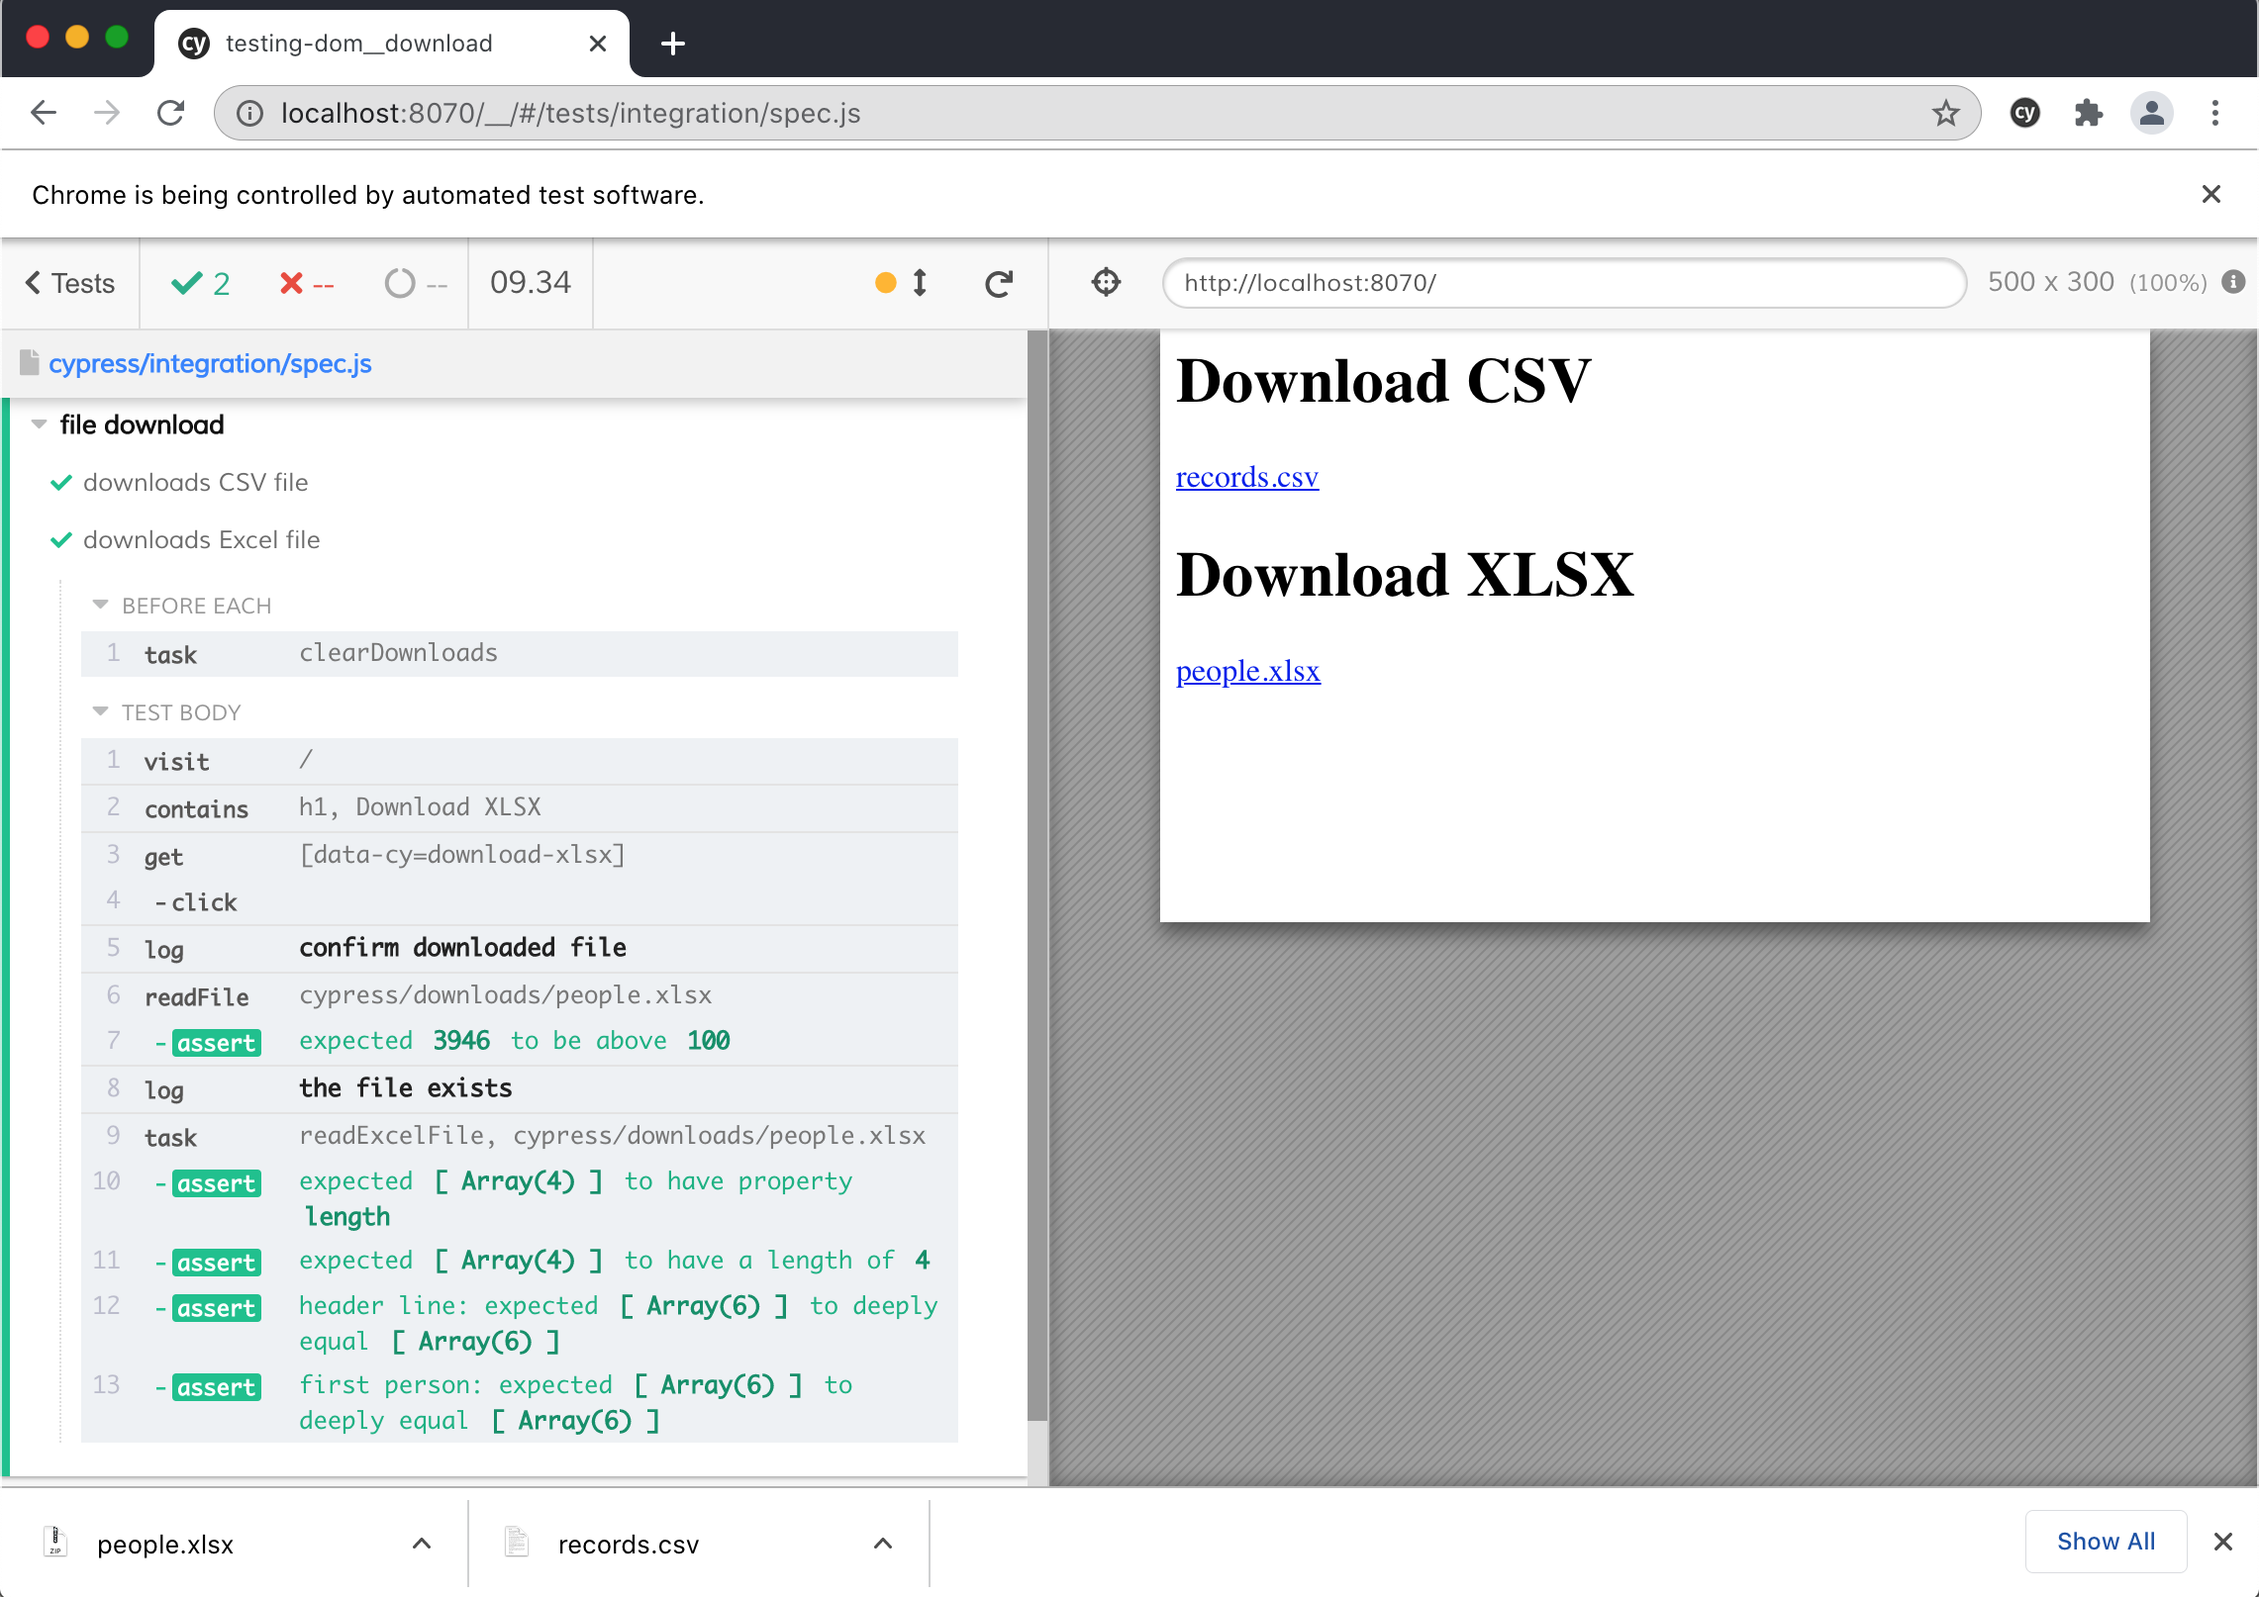
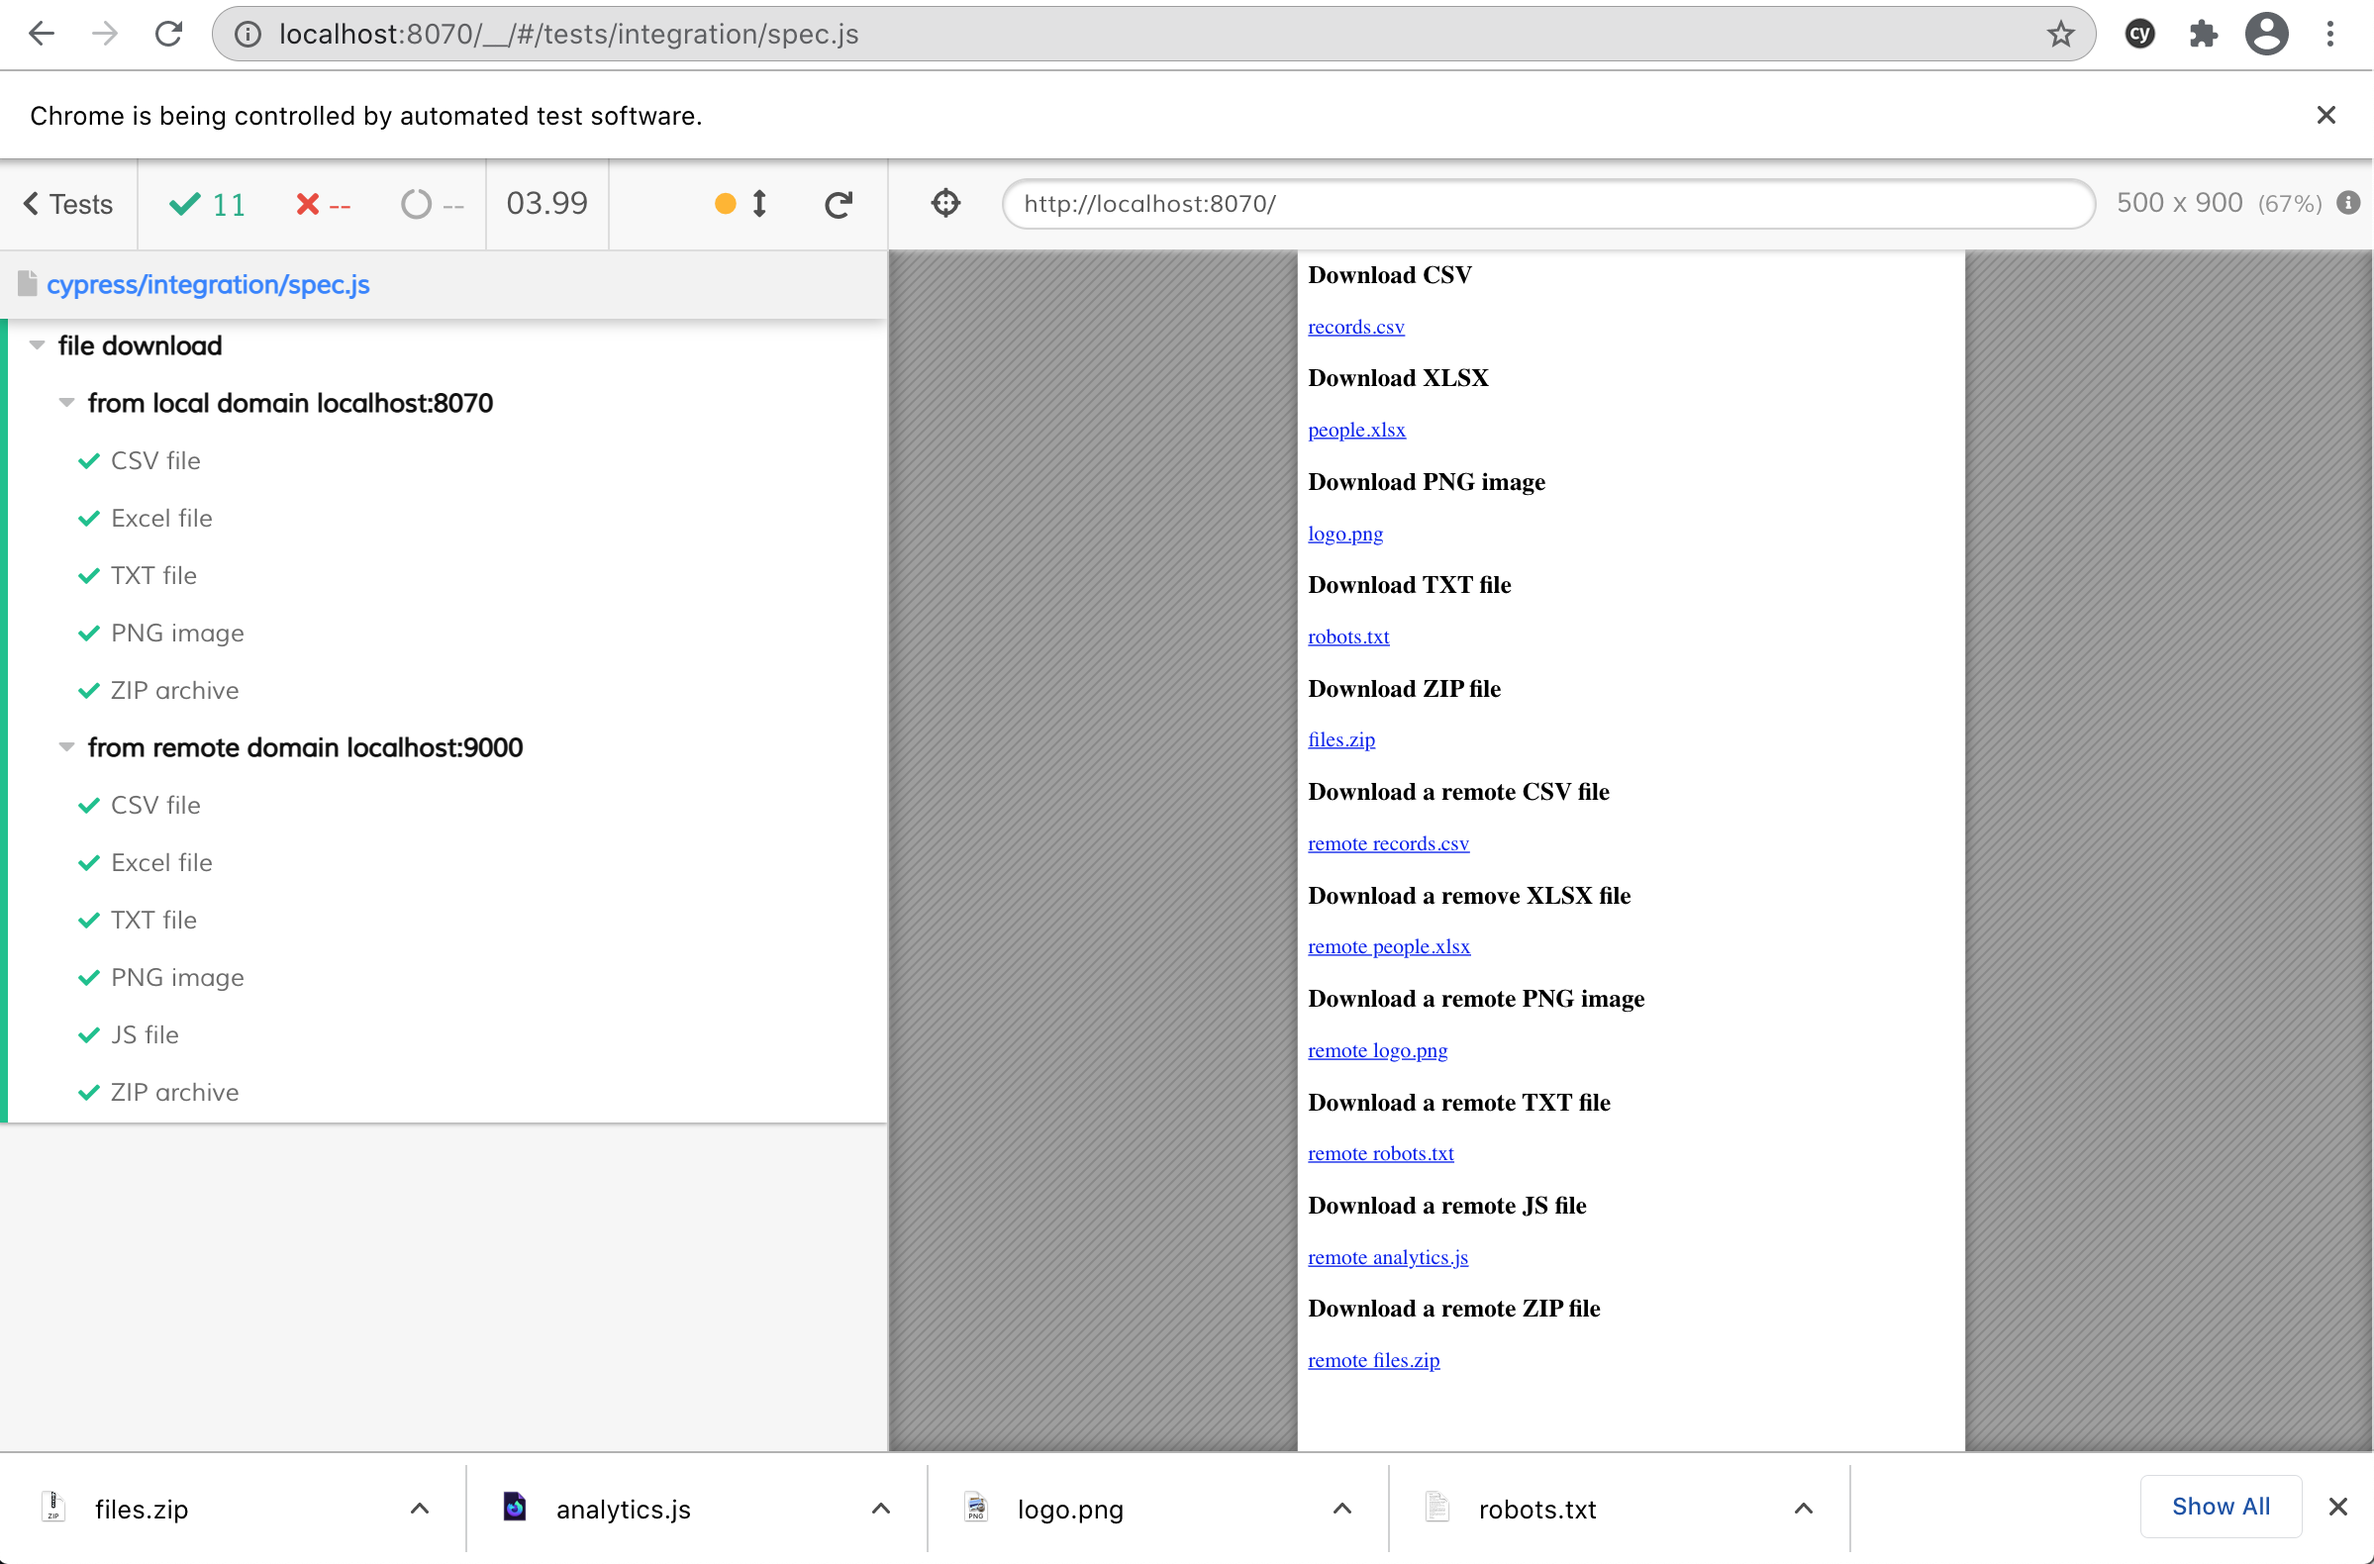
extend the downloads recipe with zip download and validation (#608)

diff --git a/examples/testing-dom__download/cypress/plugins/index.js b/examples/testing-dom__download/cypress/plugins/index.js
@@ -3,6 +3,8 @@
 const path = require('path')
 const fs = require('fs')
 const readXlsxFile = require('read-excel-file/node')
+const AdmZip = require('adm-zip')
+const { stripIndent } = require('common-tags')
 
 // place downloads into "cypress/downloads" folder
 const downloadDirectory = path.join(__dirname, '..', 'downloads')
@@ -36,6 +38,74 @@ module.exports = (on, config) => {
 
       return readXlsxFile(filename)
     },
+
+    validateZipFile (filename) {
+      // now let's validate the downloaded ZIP file
+      // the validations depend on your projects. For this example
+      // we will check that the zip has two entries "a.txt" and "b.txt"
+      // and that the contents of the zipped file "a.txt" are the same as expected
+
+      // Tip: use https://github.com/cthackers/adm-zip to load and unzip the Zip contents
+      console.log('loading zip', filename)
+      const zip = new AdmZip(filename)
+      const zipEntries = zip.getEntries()
+
+      const names = zipEntries.map((entry) => entry.entryName).sort()
+
+      console.log('zip file %s has entries %o', filename, names)
+
+      // since this is plugins code we do not have built-in "expect" or "assert" functions
+      // instead we can throw an Error object which fails the "cy.task" command
+      if (names.length !== 2) {
+        throw new Error(`List of files ${names.join(',')} in ${filename} has extra files`)
+      }
+
+      // if there is no error, let's print positive message to the terminal
+      // to let the user know this validation was successful
+      console.log('✅ number of entries')
+
+      if (!names.includes('a.txt')) {
+        throw new Error(`List of files ${names.join(',')} in ${filename} is missing a.txt`)
+      }
+
+      console.log('✅ has a.txt entry')
+
+      if (!names.includes('b.txt')) {
+        throw new Error(`List of files ${names.join(',')} in ${filename} is missing b.txt`)
+      }
+
+      console.log('✅ has b.txt entry')
+
+      // confirm the contents of an entry inside the Zip file
+      // the entry is just a text file in our case
+      // let's grab its text content and compare to the expected string
+      const aEntry = zip.readAsText('a.txt').trim()
+      const expectedText = stripIndent`
+      hello zip
+      and Cypress recipes
+      `
+
+      if (aEntry !== expectedText) {
+        console.error('Expected file a.txt to have text')
+        console.error('------')
+        console.error(expectedText)
+        console.error('------')
+        console.error('but it had text')
+        console.error('------')
+        console.error(aEntry)
+        console.error('------')
+        throw new Error(stripIndent`
+          Invalid a.txt entry in the zip file ${filename}
+          See terminal for more details
+        `)
+      }
+
+      console.log('✅ a.txt file has the expected contents')
+
+      // any other validations?
+
+      return null
+    },
   })
 
   // https://on.cypress.io/browser-launch-api
@@ -43,14 +113,21 @@ module.exports = (on, config) => {
     console.log('browser %o', browser)
 
     if (isFirefox(browser)) {
+      // special settings for Firefox browser
+      // to prevent showing popup dialogs that block the rest of the test
       options.preferences['browser.download.dir'] = downloadDirectory
       options.preferences['browser.download.folderList'] = 2
 
-      // needed to prevent download prompt for text/csv and Excel files
-      // grab the Excel MIME types by downloading the files in Excel and observing
-      // the reported MIME content types in the Developer Toos
-      options.preferences['browser.helperApps.neverAsk.saveToDisk'] =
-        'text/csv,application/vnd.openxmlformats-officedocument.spreadsheetml.sheet'
+      // needed to prevent the download prompt for CSV, Excel, and ZIP files
+      // TIP: with Firefox DevTools open, download the file yourself
+      // and observe the reported MIME type in the Developer Tools
+      const mimeTypes = [
+        'text/csv',
+        'application/vnd.openxmlformats-officedocument.spreadsheetml.sheet', // Excel
+        'application/zip',
+      ]
+
+      options.preferences['browser.helperApps.neverAsk.saveToDisk'] = mimeTypes.join(',')
 
       return options
     }

diff --git a/examples/testing-dom__download/cypress/integration/spec.js b/examples/testing-dom__download/cypress/integration/spec.js
@@ -78,6 +78,19 @@ describe('file download', () => {
     })
   }
 
+  const validateZip = () => {
+    const downloadedFilename = path.join(downloadsFolder, 'files.zip')
+
+    // wait for the file to be fully downloaded by reading it (as binary)
+    // and checking its length
+    cy.readFile(downloadedFilename, 'binary', { timeout: 15000 }).should('have.length.gt', 300)
+
+    // unzipping and validating a zip file requires the direct access to the file system
+    // thus it is easier to perform the checks from the plugins file that runs in Node
+    // see the plugins file "on('task')" code to see how we can read and validate a Zip file
+    cy.task('validateZipFile', downloadedFilename)
+  }
+
   beforeEach(() => {
     cy.task('clearDownloads')
 
@@ -162,6 +175,14 @@ describe('file download', () => {
       cy.log('**confirm downloaded image**')
       validateImage()
     })
+
+    it('ZIP archive', () => {
+      cy.visit('/')
+      cy.get('[data-cy=download-zip]').click()
+
+      cy.log('**confirm downloaded ZIP**')
+      validateZip()
+    })
   })
 
   // The next step tries to download an image file located in
@@ -229,6 +250,14 @@ describe('file download', () => {
 
         expect(lines).to.have.length.gt(20)
       })
+    })
+
+    it('ZIP archive', () => {
+      cy.visit('/')
+      cy.get('[data-cy=download-remote-zip]').click()
+
+      cy.log('**confirm downloaded ZIP**')
+      validateZip()
     })
   })
 })

diff --git a/examples/testing-dom__download/public/index.html b/examples/testing-dom__download/public/index.html
@@ -12,6 +12,9 @@
   <h3>Download TXT file</h3>
   <a data-cy="download-txt" href="robots.txt" download>robots.txt</a>
 
+  <h3>Download ZIP file</h3>
+  <a data-cy="download-zip" href="files.zip" download>files.zip</a>
+
   <h3>Download a remote CSV file</h3>
   <a data-cy="download-remote-csv" href="http://localhost:9000/records.csv" download>remote records.csv</a>
 
@@ -26,4 +29,7 @@
 
   <h3>Download a remote JS file</h3>
   <a data-cy="download-remote-js" href="https://www.google-analytics.com/analytics.js" download>remote analytics.js</a>
+
+  <h3>Download a remote ZIP file</h3>
+  <a data-cy="download-remote-zip" href="http://localhost:9000/files.zip" download>remote files.zip</a>
 </body>

diff --git a/examples/testing-dom__download/README.md b/examples/testing-dom__download/README.md
@@ -2,11 +2,13 @@
 
 ![File download in Chrome](images/chrome.png)
 
-See [cypress/plugins/index.js](cypress/plugins/index.js) to see how we set the download folder when launching the browser. See the [cypress/integration/spec.js](cypress/integration/spec.js) spec file that downloads and verifies:
+See [cypress/plugins/index.js](cypress/plugins/index.js) to see how we set the browser preferences to se the download folder and bypass the download modal dialog. See the [cypress/integration/spec.js](cypress/integration/spec.js) spec file that downloads and verifies:
 - a CSV file
 - an Excel file
 - a PNG image
 - a TXT file
 - a JS file
+- a Zip file
 
-![File download in Firefox](images/firefox.png)
+
+Text files are validated right from the browser spec, but the binary files like the downloaded Zip archives need to be validated from Node code using the plugins file.
